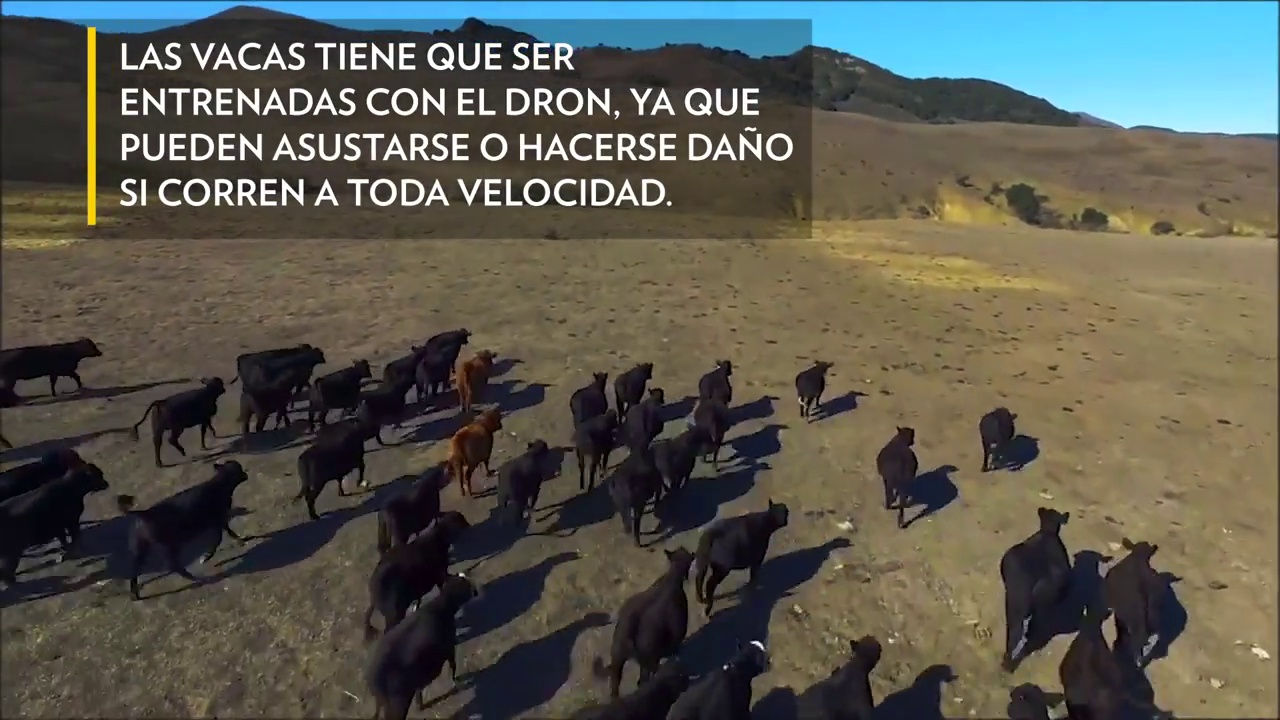
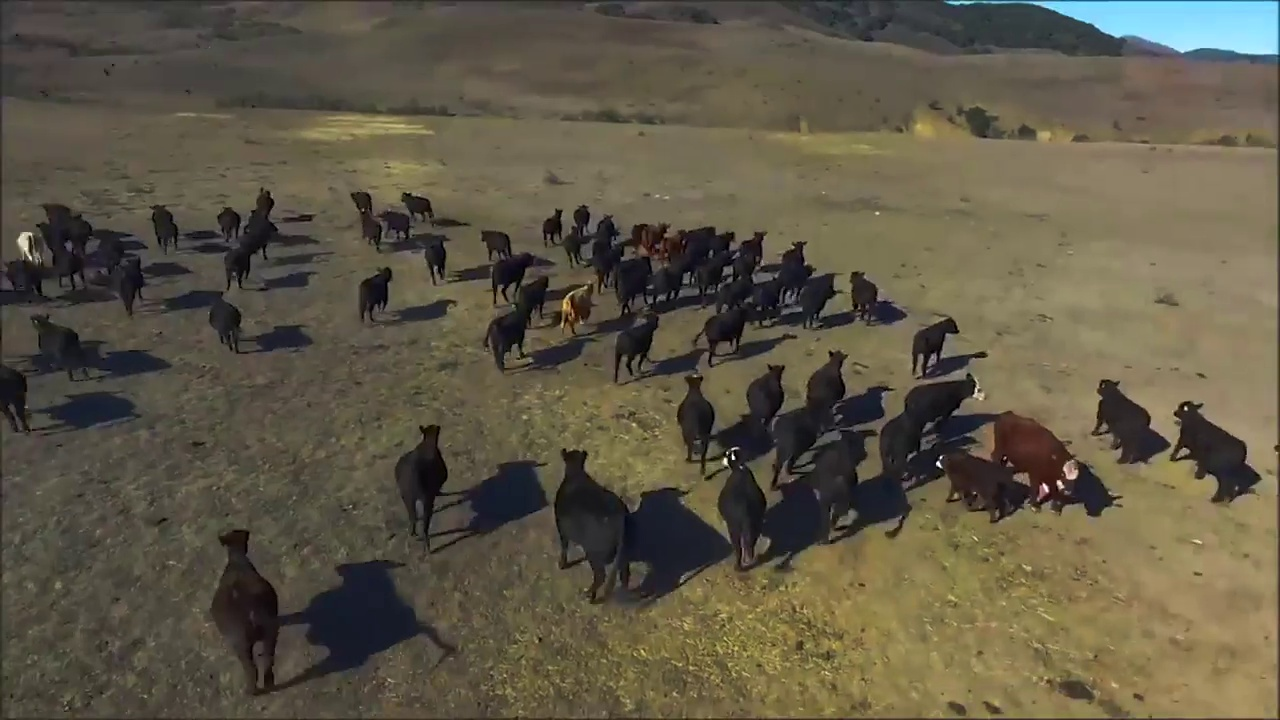
ESTABLE 1
FALTA QUE SE ACTUALIZE TODO A TIEMPO REAL

diff --git a/flutter_video_trasmition/lib/providers/gallery_provider.dart b/flutter_video_trasmition/lib/providers/gallery_provider.dart
@@ -1,46 +1,63 @@
+import 'dart:io';
 import 'package:flutter_riverpod/flutter_riverpod.dart';
-
-class CaptureData {
-  final String flight;
-  final String field;
-  final int capture;
-  final String filename;
-
-  CaptureData({
-    required this.flight,
-    required this.field,
-    required this.capture,
-    required this.filename,
-  });
-
-  factory CaptureData.fromJson(Map<String, dynamic> json) {
-    return CaptureData(
-      flight: json["flight"],
-      field: json["field"],
-      capture: json["capture"],
-      filename: json["filename"],
-    );
-  }
-}
-
-class GalleryNotifier extends StateNotifier<List<CaptureData>> {
-  GalleryNotifier() : super([]);
-
-  void setCaptures(List<CaptureData> captures) {
-    state = captures;
-  }
-
-  void addCapture(CaptureData capture) {
-    state = [...state, capture];
-  }
-
-  void removeLast() {
-    if (state.isNotEmpty) {
-      state = state.sublist(0, state.length - 1);
-    }
-  }
-}
+import 'package:path/path.dart' as p;
 
 final galleryProvider =
-    StateNotifierProvider<GalleryNotifier, List<CaptureData>>(
-        (ref) => GalleryNotifier());
+    StateNotifierProvider<GalleryNotifier, Map<String, Map<String, List<File>>>>(
+  (ref) => GalleryNotifier()..loadGalleryData(),
+);
+
+class GalleryNotifier
+    extends StateNotifier<Map<String, Map<String, List<File>>>> {
+  GalleryNotifier() : super({});
+
+  void loadGalleryData() {
+    final scriptDir = Directory.current.path; // flutter_video_trasmition
+    final projectRoot = p.dirname(scriptDir); // sube un nivel -> Projecto-Final
+    final dir = Directory(p.join(projectRoot, 'carpeta_frames'));
+
+    Map<String, Map<String, List<File>>> data = {};
+
+    if (dir.existsSync()) {
+      final files = dir
+          .listSync()
+          .where((f) => f.path.toLowerCase().endsWith(".jpg"))
+          .map((f) => File(f.path))
+          .toList();
+
+      for (var file in files) {
+        final filename = p.basename(file.path);
+        final parts = filename.split('_');
+
+        if (parts.length >= 6) {
+          final ndc = parts[1]; // ejemplo: "123"
+          final ndv = parts[3]; // ejemplo: "456"
+
+          data[ndc] ??= {};
+          data[ndc]![ndv] ??= [];
+          data[ndc]![ndv]!.add(file);
+        }
+      }
+
+      // Ordenar todo
+      for (var ndc in data.keys) {
+        for (var ndv in data[ndc]!.keys) {
+          data[ndc]![ndv]!.sort((a, b) => p.basename(a.path).compareTo(p.basename(b.path)));
+        }
+      }
+    }
+
+    state = data;
+  }
+
+  void deleteCaptures(List<String> paths) {
+    for (var path in paths) {
+      try {
+        File(path).deleteSync();
+      } catch (e) {
+        // ignore error
+      }
+    }
+    loadGalleryData(); // recarga después de borrar
+  }
+}

diff --git a/flutter_video_trasmition/lib/screens/galery_screen.dart b/flutter_video_trasmition/lib/screens/galery_screen.dart
@@ -1,5 +1,6 @@
 import 'dart:io';
 import 'package:flutter/material.dart';
+import 'package:path/path.dart' as p;
 
 class GaleryScreen extends StatefulWidget {
   const GaleryScreen({super.key});
@@ -21,8 +22,9 @@ class _GaleryScreenState extends State<GaleryScreen> {
   void _loadGalleryData() {
     setState(() => _isLoading = true);
 
-    final dir = Directory(
-        "C:/Users/Mauricio/Documents/GitHub/Projecto-Final/carpeta_frames");
+    final scriptDir = Directory.current.path; // flutter_video_trasmition
+    final projectRoot = p.dirname(scriptDir); // sube un nivel -> Projecto-Final
+    final dir = Directory(p.join(projectRoot, 'carpeta_frames'));
 
     Map<String, Map<String, List<File>>> data = {};
 
@@ -277,35 +279,38 @@ class _CaptureListScreenState extends State<CaptureListScreen> {
   final Set<String> _selected = {};
 
   void _deleteSelected() {
-    showDialog(
-      context: context,
-      builder: (context) => AlertDialog(
-        title: const Text("Confirmar eliminación"),
-        content: Text("¿Eliminar ${_selected.length} capturas?"),
-        actions: [
-          TextButton(
-            onPressed: () => Navigator.pop(context),
-            child: const Text("Cancelar"),
-          ),
-          TextButton(
-            onPressed: () {
+  showDialog(
+    context: context,
+    builder: (context) => AlertDialog(
+      title: const Text("Confirmar eliminación"),
+      content: Text("¿Eliminar ${_selected.length} capturas?"),
+      actions: [
+        TextButton(
+          onPressed: () => Navigator.pop(context),
+          child: const Text("Cancelar"),
+        ),
+        TextButton(
+          onPressed: () {
+            setState(() {
               for (var path in _selected) {
                 try {
                   File(path).deleteSync();
+                  widget.capturas.removeWhere((f) => f.path == path);
                 } catch (e) {
                   debugPrint("Error al borrar $path: $e");
                 }
               }
               _selected.clear();
-              Navigator.pop(context);
-              Navigator.pop(context); // Volver a la lista de vuelos
-            },
-            child: const Text("Eliminar", style: TextStyle(color: Colors.red)),
-          ),
-        ],
-      ),
-    );
-  }
+            });
+            Navigator.pop(context); // cerrar el AlertDialog
+          },
+          child: const Text("Eliminar", style: TextStyle(color: Colors.red)),
+        ),
+      ],
+    ),
+  );
+}
+
 
   @override
   Widget build(BuildContext context) {

diff --git a/flutter_video_trasmition/lib/main.dart b/flutter_video_trasmition/lib/main.dart
@@ -19,3 +19,5 @@ class MyApp extends ConsumerWidget {
     );
   }
 }
+
+
